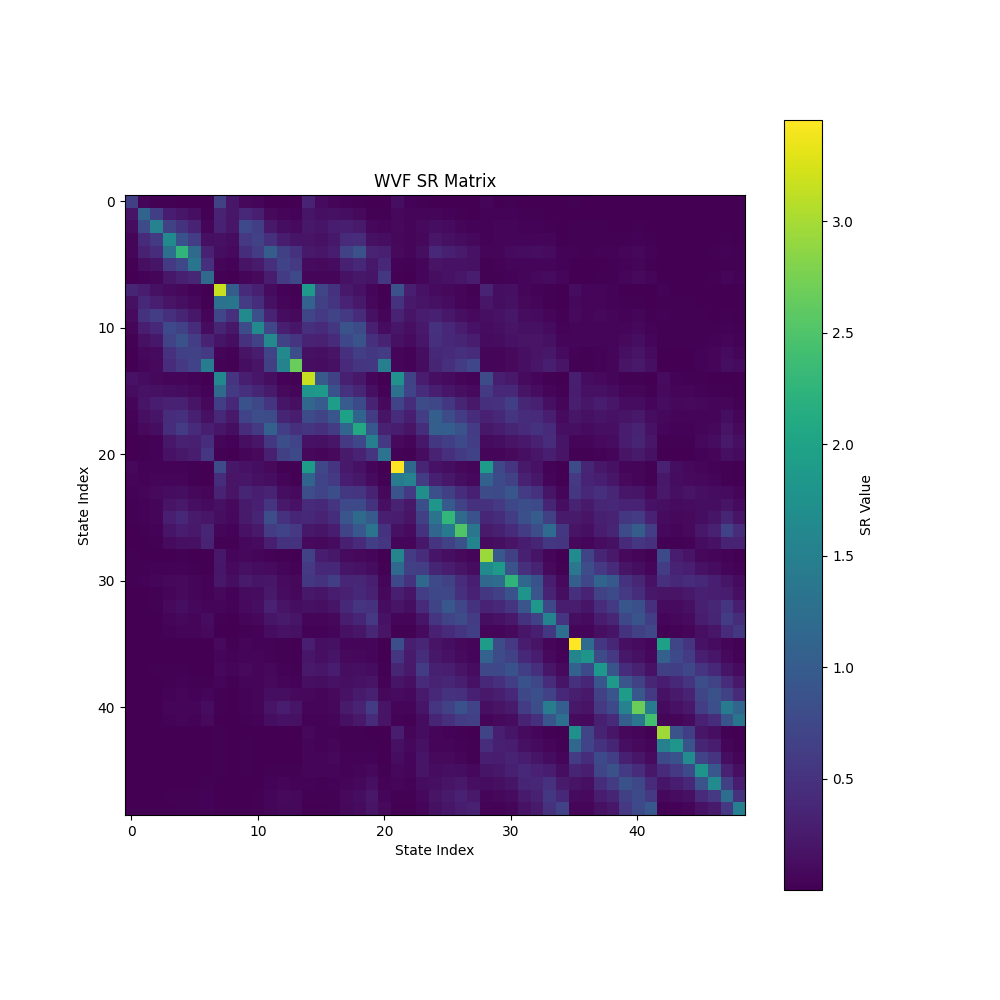
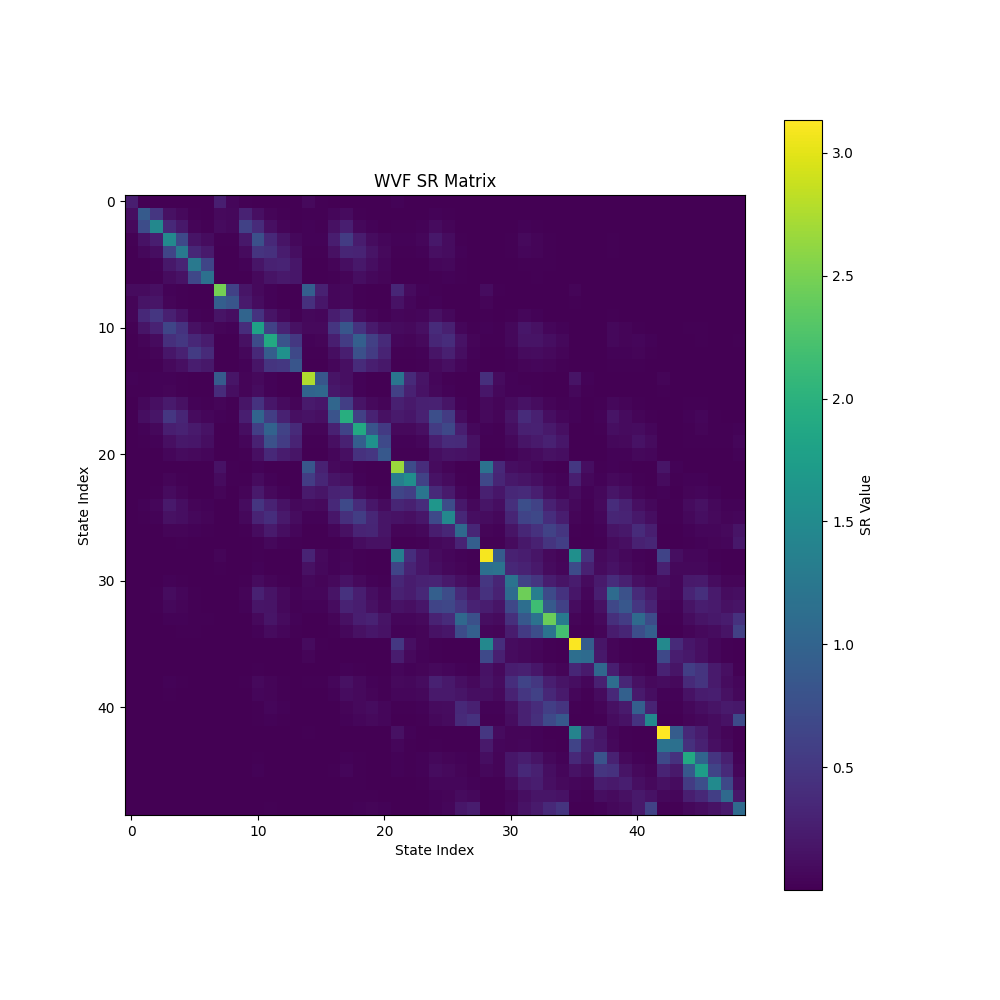
got grid score working for SARSA

diff --git a/SRGoalSlice.py b/SRGoalSlice.py
@@ -463,7 +463,7 @@ def calculate_rate_map(experiences, env):
 # parameters for training
 train_episode_length = 100
 test_episode_length = 100
-episodes = 2000
+episodes = 1000
 gamma = 0.8
 lr = 0.01
 
@@ -552,20 +552,28 @@ for i in range(episodes):
             break
     SARSA_test_lengths.append(j)
     
-    if i % 50 == 0:
-        print('\rEpisode {}/{}, TD Error: {}, Test Lengths: {}'
-              .format(i, episodes, np.mean(SARSA_lifetime_td_errors[-50:]), 
-                      np.mean(SARSA_test_lengths[-50:])), end='')
+    # if i % 50 == 0:
+    #     print('\rEpisode {}/{}, TD Error: {}, Test Lengths: {}'
+    #           .format(i, episodes, np.mean(SARSA_lifetime_td_errors[-50:]), 
+    #                   np.mean(SARSA_test_lengths[-50:])), end='')
 
 # Calculating the grid score
-
 from metrics import GridScorer
 
 nbins = 50  # value for number of bins
 scorer = GridScorer(nbins)
 
 # Get grid scores and spatial autocorrelation (SAC)
-sac, stGrd = scorer.get_scores(SARSA_rate_map)
+sac, grid_props  = scorer.get_scores(SARSA_rate_map)
+
+# SAC
+scorer.plot_sac(sac, title="Spatial Autocorrelogram", score="Grid Score: {}".format(sac))
+plt.show()
+
+# Grid-score
+grid_score = grid_props['gridscore']
+scorer.plot_grid_score(sac)
+plt.show()
 
 # scorer.plot_sac(sac)
 # scorer.plot_grid_score(stGrd) dont know the plot for this
